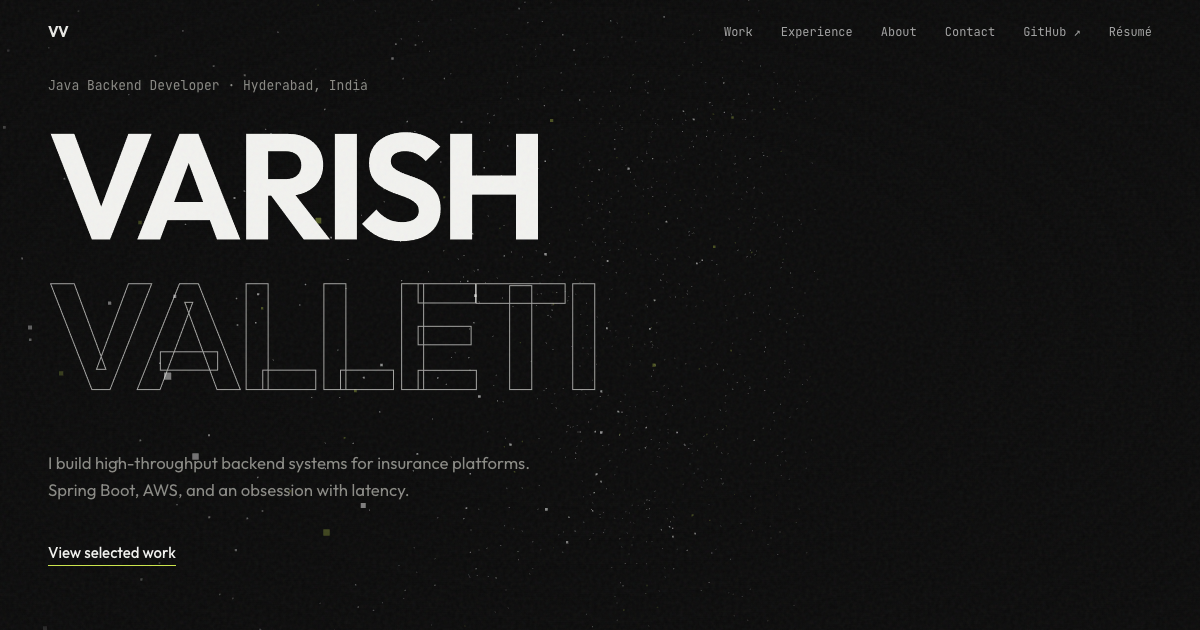
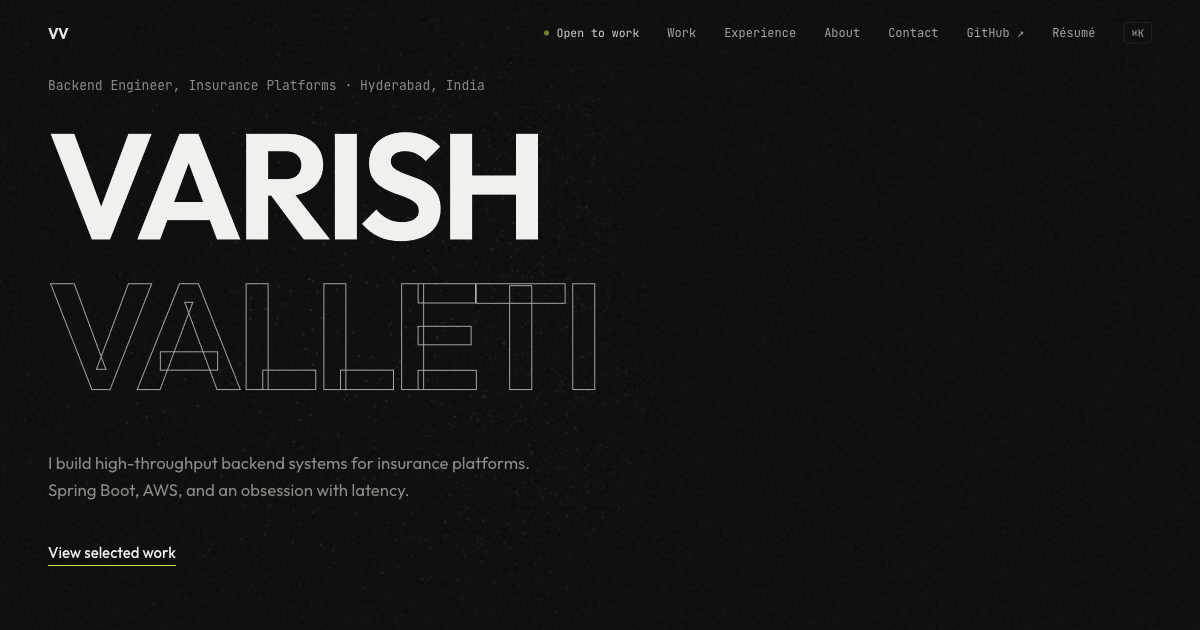
Perf and a11y round: offscreen render pause, focus traps, fresh OG card
Three.js loop suspends via IntersectionObserver when the hero is out
of view. Modal and palette trap Tab and restore focus on close;
palette list is Lenis-exempt. The hire egg scrolls through Lenis.
OG image regenerated with the new positioning.

diff --git a/src/components/CommandPalette.tsx b/src/components/CommandPalette.tsx
@@ -112,6 +112,7 @@ export default function CommandPalette() {
 
   useEffect(() => {
     if (!open) return;
+    const prevFocus = document.activeElement as HTMLElement | null;
     inputRef.current?.focus();
     document.documentElement.style.overflow = "hidden";
     const onKey = (e: KeyboardEvent) => {
@@ -119,11 +120,17 @@ export default function CommandPalette() {
       if (e.key === "ArrowDown") { e.preventDefault(); setIndex((i) => Math.min(i + 1, filtered.length - 1)); }
       if (e.key === "ArrowUp") { e.preventDefault(); setIndex((i) => Math.max(i - 1, 0)); }
       if (e.key === "Enter") { filtered[index]?.run(); }
+      if (e.key === "Tab") {
+        // Keep focus inside the palette.
+        e.preventDefault();
+        inputRef.current?.focus();
+      }
     };
     window.addEventListener("keydown", onKey);
     return () => {
       window.removeEventListener("keydown", onKey);
       document.documentElement.style.overflow = "";
+      prevFocus?.focus?.();
     };
   }, [open, filtered, index, close]);
 
@@ -161,7 +168,12 @@ export default function CommandPalette() {
               value={query}
               onChange={(e) => setQuery(e.target.value)}
             />
-            <div className="cp-list" role="listbox" aria-label="Commands">
+            <div
+              className="cp-list"
+              role="listbox"
+              aria-label="Commands"
+              data-lenis-prevent
+            >
               {filtered.length === 0 && <p className="cp-empty">No matches.</p>}
               {filtered.map((a, i) => (
                 <button

diff --git a/src/components/WorkModal.tsx b/src/components/WorkModal.tsx
@@ -15,15 +15,35 @@ export default function WorkModal({
   const closeRef = useRef<HTMLButtonElement>(null);
 
   useEffect(() => {
+    const prevFocus = document.activeElement as HTMLElement | null;
     closeRef.current?.focus();
     const onKey = (e: KeyboardEvent) => {
       if (e.key === "Escape") onClose();
+      if (e.key === "Tab") {
+        // Cycle focus within the dialog.
+        const panel = closeRef.current?.closest(".wm-panel");
+        if (!panel) return;
+        const focusables = panel.querySelectorAll<HTMLElement>(
+          "a[href], button:not([disabled])"
+        );
+        if (focusables.length === 0) return;
+        const first = focusables[0];
+        const last = focusables[focusables.length - 1];
+        if (e.shiftKey && document.activeElement === first) {
+          e.preventDefault();
+          last.focus();
+        } else if (!e.shiftKey && document.activeElement === last) {
+          e.preventDefault();
+          first.focus();
+        }
+      }
     };
     window.addEventListener("keydown", onKey);
     document.documentElement.style.overflow = "hidden";
     return () => {
       window.removeEventListener("keydown", onKey);
       document.documentElement.style.overflow = "";
+      prevFocus?.focus?.();
     };
   }, [onClose]);
 

diff --git a/src/three/ThreeScene.tsx b/src/three/ThreeScene.tsx
@@ -131,12 +131,15 @@ export default function ThreeScene() {
 
     window.addEventListener("resize", onResize);
 
+    // Pause rendering entirely while the hero is scrolled out of view.
+    let observer: IntersectionObserver | null = null;
+
     if (prefersReduced) {
       // Static single frame: no loop, no parallax.
       renderer.render(scene, camera);
     } else {
       window.addEventListener("pointermove", onPointerMove);
-      renderer.setAnimationLoop(() => {
+      const loop = () => {
         const t = clock.getElapsedTime();
         const party = performance.now() < partyUntil;
 
@@ -148,11 +151,17 @@ export default function ThreeScene() {
         camera.position.y += (-mouse.y * 0.4 - camera.position.y) * 0.04;
 
         renderer.render(scene, camera);
+      };
+      renderer.setAnimationLoop(loop);
+      observer = new IntersectionObserver(([entry]) => {
+        renderer.setAnimationLoop(entry.isIntersecting ? loop : null);
       });
+      observer.observe(container);
     }
 
     return () => {
       renderer.setAnimationLoop(null);
+      observer?.disconnect();
       window.removeEventListener("resize", onResize);
       window.removeEventListener("pointermove", onPointerMove);
       window.removeEventListener("vv:party", onParty);

diff --git a/src/components/EasterEggs.tsx b/src/components/EasterEggs.tsx
@@ -111,7 +111,10 @@ export default function EasterEggs() {
   };
 
   useTypedTrigger("hire", () => {
-    document.getElementById("contact")?.scrollIntoView({ behavior: "smooth" });
+    const el = document.getElementById("contact");
+    const lenis = (window as unknown as { __lenis?: { scrollTo: (t: Element) => void } }).__lenis;
+    if (el && lenis) lenis.scrollTo(el);
+    else el?.scrollIntoView({ behavior: "smooth" });
     showToast("Good instinct. The email is right there.");
   });
 
